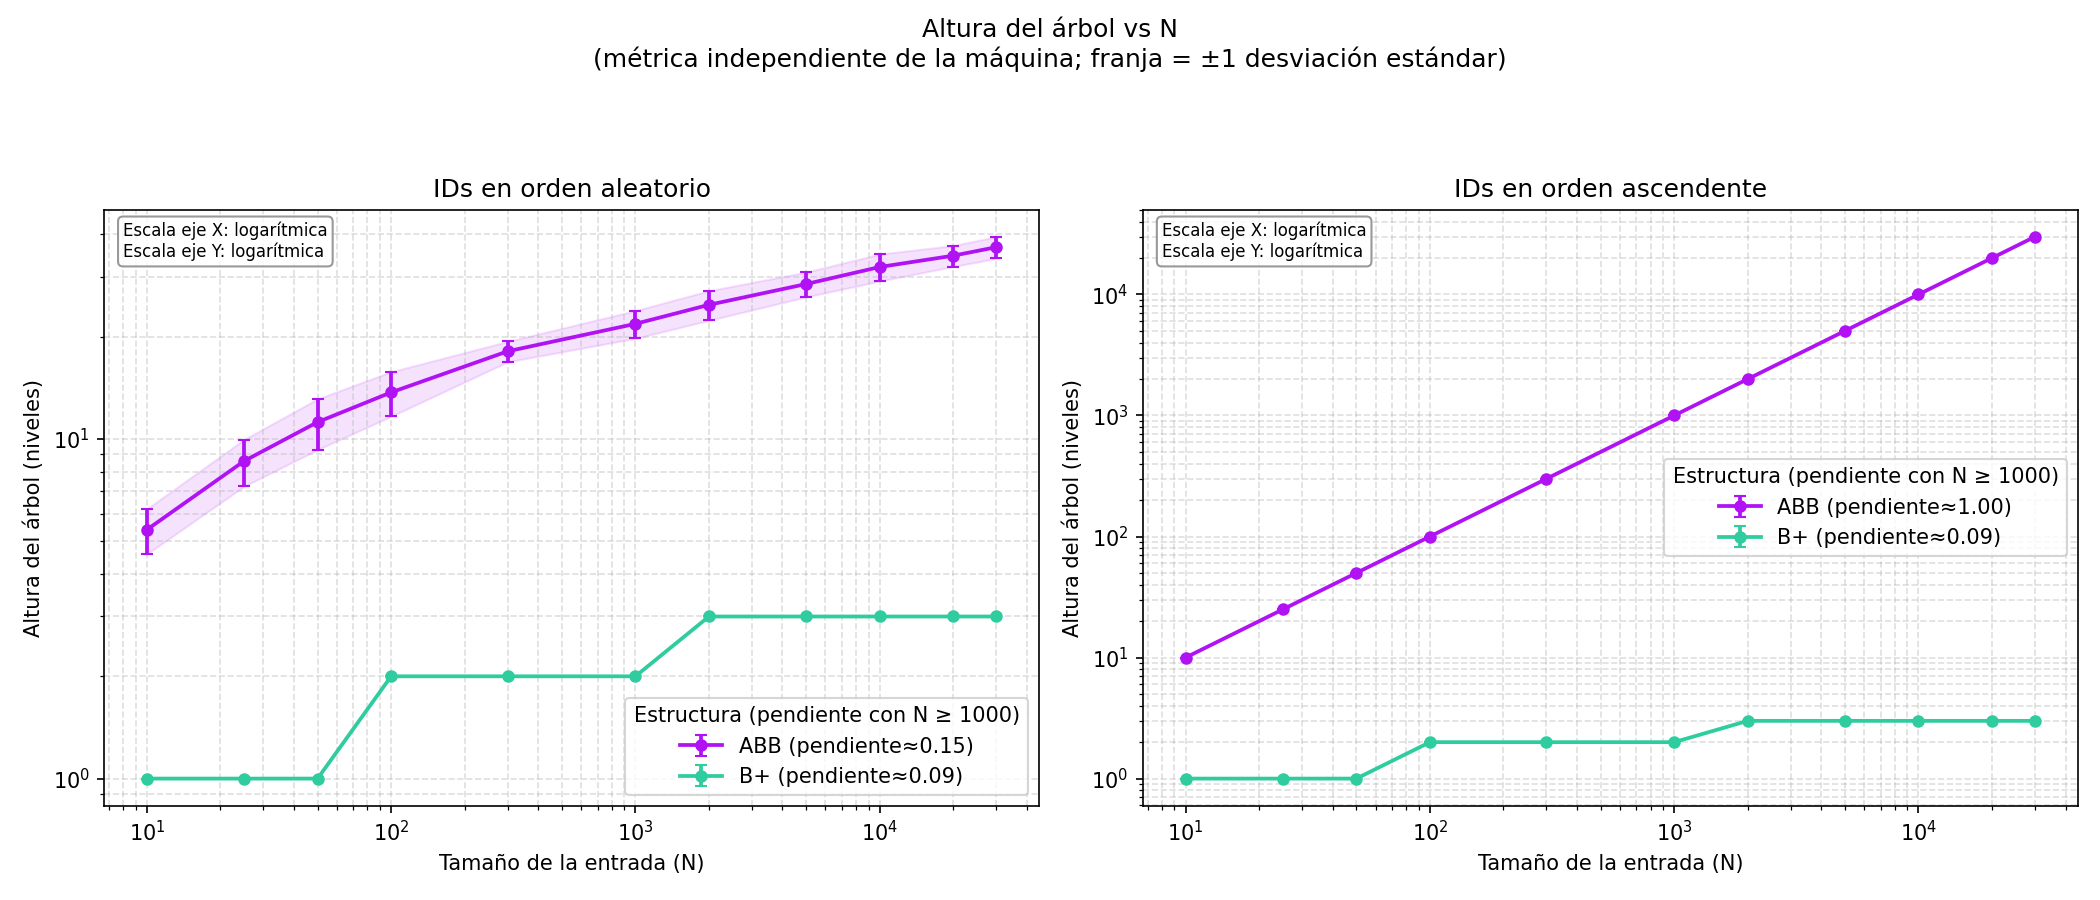
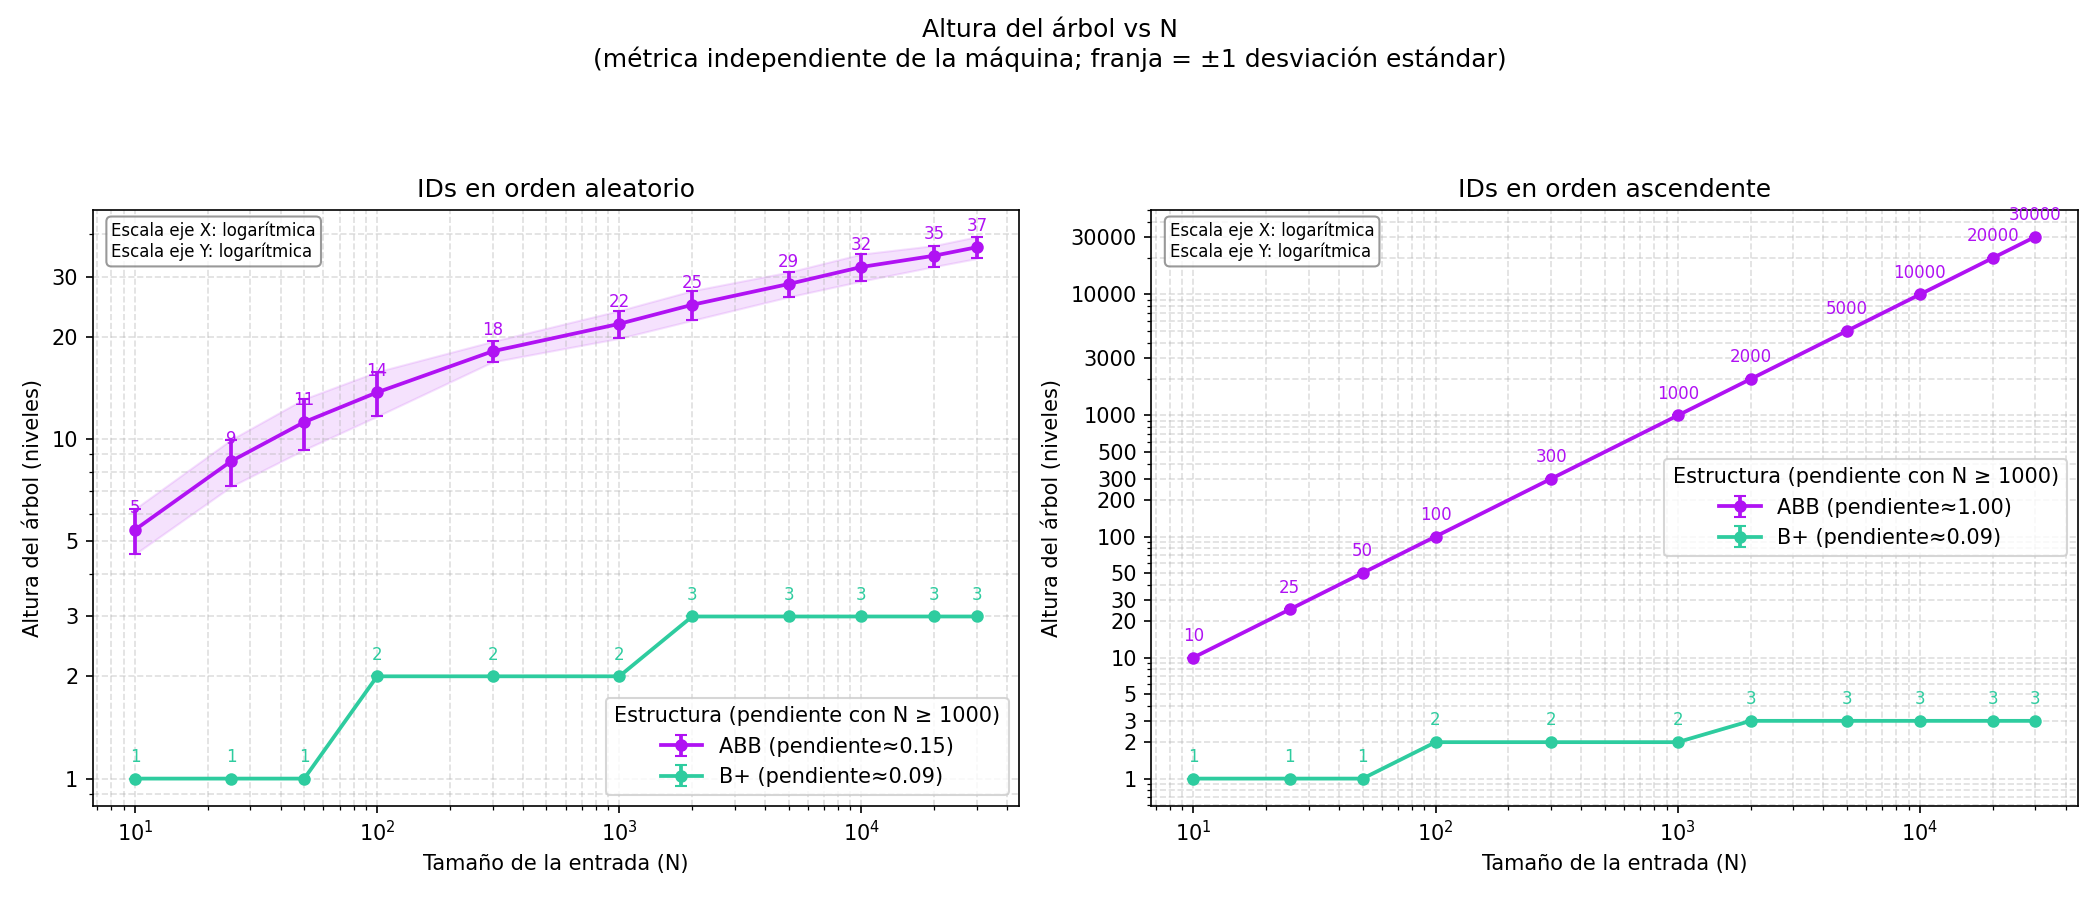
Aclarar alturas en la gráfica de altura Vs N

diff --git a/Laboratorio 3/Graficas.py b/Laboratorio 3/Graficas.py
@@ -1,5 +1,5 @@
 import os
-
+from matplotlib.ticker import NullFormatter
 import matplotlib.pyplot as plt
 import numpy as np
 import pandas as pd
@@ -26,10 +26,10 @@ NOMBRES_EXPERIMENTO = {
     "E3": "Listado ascendente",
     "E5": "Búsqueda por rango",
 }
-
+ 
 NOMBRES_ORDEN = {"aleatorio": "IDs en orden aleatorio", "ordenado": "IDs en orden ascendente"}
-
-
+ 
+ 
 def cargar_datos(archivos):
     partes = []
     for archivo in archivos:
@@ -37,16 +37,16 @@ def cargar_datos(archivos):
             print(f"Aviso: no se encontró '{archivo}', se omite.")
             continue
         partes.append(pd.read_csv(archivo))
-
+ 
     if not partes:
         raise FileNotFoundError("No se encontró ninguno de los CSV. Corre primero los experimentos.")
-
+ 
     df = pd.concat(partes, ignore_index=True)
     df["tiempo_s"] = pd.to_numeric(df["tiempo_s"], errors="coerce")
     df = df.dropna(subset=["tiempo_s"])
     return df
-
-
+ 
+ 
 def contar_atipicos(tiempos):
     # Regla de Tukey sobre las repeticiones de un mismo (estructura, orden, N):
     # una repetición se MARCA como atípica si queda fuera de [Q1 - 1.5*IQR, Q3 + 1.5*IQR].
@@ -54,8 +54,8 @@ def contar_atipicos(tiempos):
     q1, q3 = tiempos.quantile(0.25), tiempos.quantile(0.75)
     iqr = q3 - q1
     return int(((tiempos < q1 - 1.5 * iqr) | (tiempos > q3 + 1.5 * iqr)).sum())
-
-
+ 
+ 
 def agrupar(df, experimento):
     # Por cada (estructura, orden, N): promedio y desviación estándar de TODAS las repeticiones.
     # Las repeticiones atípicas se conservan; solo se cuenta cuántas hay para reportarlas.
@@ -69,8 +69,8 @@ def agrupar(df, experimento):
                       "mean": t.mean(), "std": t.std(), "count": len(t)})
     print(f"{experimento}: {marcadas} de {len(datos)} repeticiones marcadas como atípicas (se conservan)")
     return pd.DataFrame(filas)
-
-
+ 
+ 
 def agrupar_altura(df):
     # La altura es una propiedad estructural del árbol, no una medición con ruido.
     datos = df.copy()
@@ -81,8 +81,8 @@ def agrupar_altura(df):
     datos = datos[datos["experimento"] == sorted(datos["experimento"].unique())[0]]
     return (datos.groupby(["estructura", "orden", "N"])["altura"]
             .agg(["mean", "std", "count"]).reset_index())
-
-
+ 
+ 
 def calcular_pendiente(N, valores):
     # Pendiente de la regresión log10(N) vs log10(valores), usando solo N >= N_MIN_AJUSTE.
     # Es el exponente k de valores ≈ c * N^k. Se calcula siempre, sin importar la escala del eje Y.
@@ -93,67 +93,82 @@ def calcular_pendiente(N, valores):
         return None
     pendiente, _ = np.polyfit(np.log10(N[m]), np.log10(valores[m]), 1)
     return pendiente
-
-
-def graficar_subplot(ax, resumen, orden, escala_y, ylabel, estructuras):
+ 
+ 
+def graficar_subplot(ax, resumen, orden, escala_y, ylabel, estructuras, anotar=False):
     datos_orden = resumen[resumen["orden"] == orden]
-
+ 
     for estructura in estructuras:
         d = datos_orden[datos_orden["estructura"] == estructura].sort_values("N")
         if d.empty:
             continue
-
+ 
         pendiente = calcular_pendiente(d["N"], d["mean"])
         etiqueta = NOMBRES.get(estructura, estructura)
         if pendiente is not None:
             etiqueta += f" (pendiente≈{pendiente:.2f})"
-
+ 
         # La banda inferior se limita para que nunca llegue a 0 o negativo (se rompe en escala log).
         std = d["std"].fillna(0)
         inferior = np.maximum(d["mean"] - std, d["mean"] * 0.01)
         superior = d["mean"] + std
-
+ 
         ax.errorbar(
             d["N"], d["mean"], yerr=np.vstack([d["mean"] - inferior, superior - d["mean"]]),
             label=etiqueta, color=COLORES.get(estructura),
             marker="o", markersize=5, capsize=3, linewidth=1.8,
         )
         ax.fill_between(d["N"], inferior, superior, color=COLORES.get(estructura), alpha=0.12)
-
+ 
+        if anotar:
+            # Se escribe el valor de cada punto encima de él (solo para la gráfica de altura)
+            for x, y in zip(d["N"], d["mean"]):
+                ax.annotate(f"{y:.0f}", (x, y), textcoords="offset points", xytext=(0, 8),
+                            ha="center", fontsize=8, color=COLORES.get(estructura))
+ 
     ax.set_xscale("log")
     ax.set_yscale(escala_y)
+ 
+    if anotar:
+        # Marcas del eje Y con números normales (1, 2, 3, 5, 10...) en vez de potencias de 10
+        ymin, ymax = ax.get_ylim()
+        marcas = [t for t in [1, 2, 3, 5, 10, 20, 30, 50, 100, 200, 300, 500, 1000, 3000, 10000, 30000]
+                  if ymin <= t <= ymax]
+        ax.set_yticks(marcas)
+        ax.set_yticklabels([str(t) for t in marcas])
+        ax.yaxis.set_minor_formatter(NullFormatter())
     ax.set_xlabel("Tamaño de la entrada (N)")
     ax.set_ylabel(ylabel)
     ax.set_title(NOMBRES_ORDEN.get(orden, orden))
     ax.legend(title=f"Estructura (pendiente con N ≥ {N_MIN_AJUSTE})")
     ax.grid(True, which="both", linestyle="--", alpha=0.4)
-
+ 
     texto = "Escala eje X: logarítmica\nEscala eje Y: logarítmica"
     ax.text(0.02, 0.98, texto, transform=ax.transAxes, fontsize=8, va="top", ha="left",
             bbox=dict(boxstyle="round", facecolor="white", alpha=0.8, edgecolor="gray"))
-
-
-def hacer_figura(resumen, titulo, ylabel, ruta, estructuras):
+ 
+ 
+def hacer_figura(resumen, titulo, ylabel, ruta, estructuras, anotar=False):
     ordenes = [o for o in ["aleatorio", "ordenado"] if o in resumen["orden"].unique()]
     escala_y = "log"      # siempre log-log
-
+ 
     fig, axes = plt.subplots(1, len(ordenes), figsize=(7 * len(ordenes), 6), squeeze=False)
     for ax, orden in zip(axes[0], ordenes):
-        graficar_subplot(ax, resumen, orden, escala_y, ylabel, estructuras)
-
+        graficar_subplot(ax, resumen, orden, escala_y, ylabel, estructuras, anotar)
+ 
     fig.suptitle(titulo, fontsize=12)
     fig.tight_layout(rect=[0, 0, 1, 0.92])
     os.makedirs(os.path.dirname(ruta), exist_ok=True)
     fig.savefig(ruta, dpi=150)
     plt.close(fig)
     print(f"Guardada: {ruta}")
-
-
+ 
+ 
 def main():
     df = cargar_datos(ARCHIVOS_CSV)
     experimentos = sorted(df["experimento"].unique())
     print(f"Experimentos encontrados: {experimentos}")
-
+ 
     for exp in experimentos:
         resumen = agrupar(df, exp)
         if resumen.empty:
@@ -166,7 +181,7 @@ def main():
             os.path.join(CARPETA_SALIDA, f"{exp}_{nombre.replace(' ', '_')}.png"),
             ("lista", "abb", "bmas"),
         )
-
+ 
     altura = agrupar_altura(df)
     if not altura.empty:
         hacer_figura(
@@ -175,8 +190,10 @@ def main():
             "Altura del árbol (niveles)",
             os.path.join(CARPETA_SALIDA, "altura_vs_N.png"),
             ("abb", "bmas"),
+            anotar=True,
         )
-
-
+ 
+ 
 if __name__ == "__main__":
     main()
+ 
